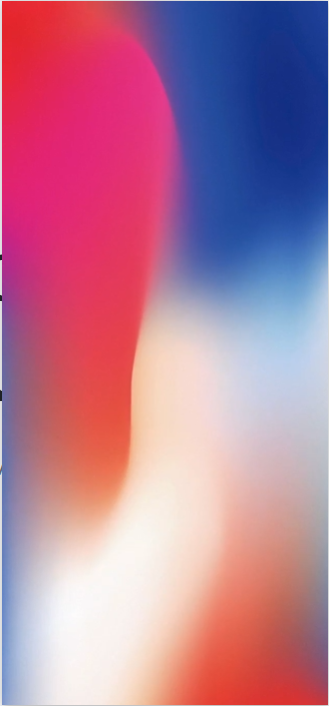
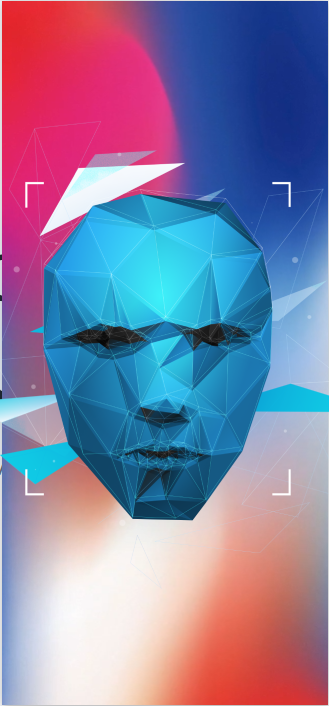
added readme

diff --git a/REACT/task1/src/components/Features.jsx b/REACT/task1/src/components/Features.jsx
@@ -1,5 +1,5 @@
 import React from 'react'
-import {bgPhone } from "./Imports";
+import {ai } from "./Imports";
 
 function Features() {
   return (
@@ -52,22 +52,10 @@ function Features() {
                          {/*Features section device mockup*/}
                         
                         <div class="features-device-mockup">
-                            <svg class="circle" viewBox="0 0 100 100" xmlns="http://www.w3.org/2000/svg">
-                                <defs>
-                                    <linearGradient id="circleGradient" gradientTransform="rotate(45)">
-                                        <stop class="gradient-start-color" offset="0%"></stop>
-                                        <stop class="gradient-end-color" offset="100%"></stop>
-                                    </linearGradient>
-                                </defs>
-                                <circle cx="50" cy="50" r="50"></circle></svg><svg class="shape-1 d-none d-sm-block" viewBox="0 0 240.83 240.83" xmlns="http://www.w3.org/2000/svg">
-                                <rect x="-32.54" y="78.39" width="305.92" height="84.05" rx="42.03" transform="translate(120.42 -49.88) rotate(45)"></rect>
-                                <rect x="-32.54" y="78.39" width="305.92" height="84.05" rx="42.03" transform="translate(-49.88 120.42) rotate(-45)"></rect></svg ><svg class="shape-2 d-none d-sm-block" viewBox="0 0 100 100" xmlns="http://www.w3.org/2000/svg"><circle cx="50" cy="50" r="50"></circle></svg>
                             <div class="device-wrapper">
-                                <div class="device" data-device="iPhoneX" data-orientation="portrait" data-color="black">
-                                    <div class="screen bg-black">
-                                     <img src={bgPhone} alt="" style={{with:"100%", height:"100%"}} />
-                                    </div>
-                                </div>
+                                 
+                                     <img  className="img-fluid" src={ai} alt="" style={{with:"100%", height:"100%"}} />
+                             
                             </div>
                         </div>
                     </div>

diff --git a/REACT/task1/src/components/Imports.jsx b/REACT/task1/src/components/Imports.jsx
@@ -2,11 +2,13 @@ import appStoreBadge from '../assets/app-store-badge.svg';
 import googlePlayBadge from '../assets/google-play-badge.svg';
 import chartGPTLogo from '../assets/chatgpt-icon.svg';
 import bgPhone from '../assets/bg-phone.png';
+import ai from '../assets/ai.png';
 
 
 export {
     appStoreBadge,
     googlePlayBadge,
     chartGPTLogo,
-    bgPhone
+    bgPhone,
+    ai
 };

diff --git a/REACT/task1/README.md b/REACT/task1/README.md
@@ -1,70 +1,4 @@
-# Getting Started with Create React App
+# Modern UI/UX GPT-3 App Landing Page
+### [Live Site](https://fascinating-cheesecake-276dd7.netlify.app)
 
-This project was bootstrapped with [Create React App](https://github.com/facebook/create-react-app).
-
-## Available Scripts
-
-In the project directory, you can run:
-
-### `npm start`
-
-Runs the app in the development mode.\
-Open [http://localhost:3000](http://localhost:3000) to view it in your browser.
-
-The page will reload when you make changes.\
-You may also see any lint errors in the console.
-
-### `npm test`
-
-Launches the test runner in the interactive watch mode.\
-See the section about [running tests](https://facebook.github.io/create-react-app/docs/running-tests) for more information.
-
-### `npm run build`
-
-Builds the app for production to the `build` folder.\
-It correctly bundles React in production mode and optimizes the build for the best performance.
-
-The build is minified and the filenames include the hashes.\
-Your app is ready to be deployed!
-
-See the section about [deployment](https://facebook.github.io/create-react-app/docs/deployment) for more information.
-
-### `npm run eject`
-
-**Note: this is a one-way operation. Once you `eject`, you can't go back!**
-
-If you aren't satisfied with the build tool and configuration choices, you can `eject` at any time. This command will remove the single build dependency from your project.
-
-Instead, it will copy all the configuration files and the transitive dependencies (webpack, Babel, ESLint, etc) right into your project so you have full control over them. All of the commands except `eject` will still work, but they will point to the copied scripts so you can tweak them. At this point you're on your own.
-
-You don't have to ever use `eject`. The curated feature set is suitable for small and middle deployments, and you shouldn't feel obligated to use this feature. However we understand that this tool wouldn't be useful if you couldn't customize it when you are ready for it.
-
-## Learn More
-
-You can learn more in the [Create React App documentation](https://facebook.github.io/create-react-app/docs/getting-started).
-
-To learn React, check out the [React documentation](https://reactjs.org/).
-
-### Code Splitting
-
-This section has moved here: [https://facebook.github.io/create-react-app/docs/code-splitting](https://facebook.github.io/create-react-app/docs/code-splitting)
-
-### Analyzing the Bundle Size
-
-This section has moved here: [https://facebook.github.io/create-react-app/docs/analyzing-the-bundle-size](https://facebook.github.io/create-react-app/docs/analyzing-the-bundle-size)
-
-### Making a Progressive Web App
-
-This section has moved here: [https://facebook.github.io/create-react-app/docs/making-a-progressive-web-app](https://facebook.github.io/create-react-app/docs/making-a-progressive-web-app)
-
-### Advanced Configuration
-
-This section has moved here: [https://facebook.github.io/create-react-app/docs/advanced-configuration](https://facebook.github.io/create-react-app/docs/advanced-configuration)
-
-### Deployment
-
-This section has moved here: [https://facebook.github.io/create-react-app/docs/deployment](https://facebook.github.io/create-react-app/docs/deployment)
-
-### `npm run build` fails to minify
-
-This section has moved here: [https://facebook.github.io/create-react-app/docs/troubleshooting#npm-run-build-fails-to-minify](https://facebook.github.io/create-react-app/docs/troubleshooting#npm-run-build-fails-to-minify)
+![Modern UI/UX GPT-3](]https://i.ibb.co/v3kxskR/Screenshot.png)
